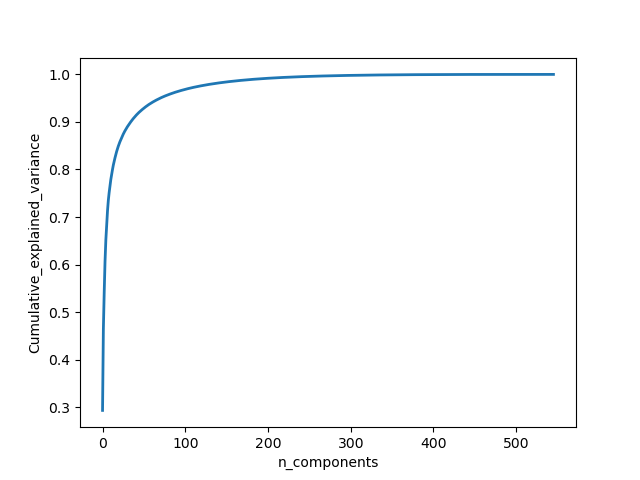
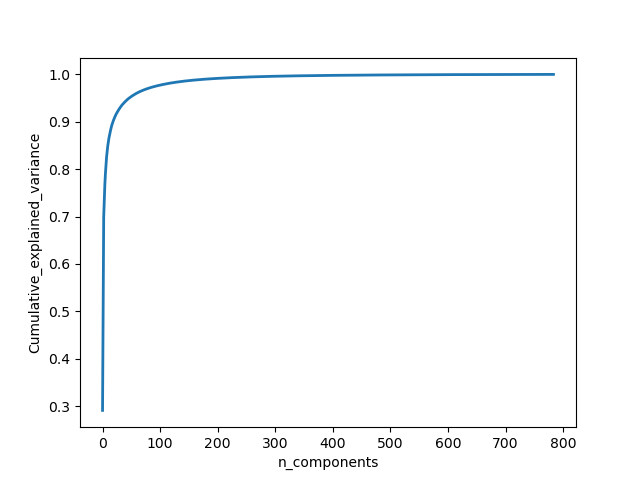
BreastMNIST pipeline

diff --git a/breast_pipeline.py b/breast_pipeline.py
@@ -1,48 +1,64 @@
 
-from utils import data_feed
+from utils import data_feed, augment_data, fit_grid
 from sklearn.preprocessing import StandardScaler
 from sklearn.decomposition import PCA
 import numpy as np
 import matplotlib.pyplot as plt
-from sklearn.ensemble import RandomForestClassifier  #Random Forest algorithm
+from sklearn.ensemble import RandomForestClassifier
 from sklearn.metrics import classification_report, accuracy_score
-from sklearn.model_selection import RandomizedSearchCV, GridSearchCV
+from sklearn.model_selection import RandomizedSearchCV, GridSearchCV, ParameterGrid
+from tqdm import tqdm
+
 import joblib
 from joblib import Parallel, delayed
 from dask.distributed import Client, LocalCluster
 from sklearn.model_selection import cross_val_score
 
-'''
-Next steps:
-- try other models on this 
- 
-'''
+print("-------------- Import data --------------")
 
-print("-------------- Import Data --------------")
+X_train_base, y_train_base, X_val, y_val, X_test, y_test = data_feed(data_flag='breastmnist')
 
-X_train, y_train, X_val, y_val, X_test, y_test = data_feed(data_flag='breastmnist')
+print("Training shape", X_train_base.shape)
+print("Validation shape", X_val.shape)
+print("Testing shape", X_test.shape)
+
+print("-------------- Train random forest with best parameters on all training set --------------")
+
+X_train = np.vstack((X_train_base, X_val))
+y_train = np.hstack((y_train_base, y_val))
+
+print("Training predictors shape", X_train.shape)
+print("Training target shape", y_train.shape)
+print("Testing predictors shape", X_test.shape)
+print("Testing target shape", y_test.shape)
+
+print("-------------- Perform data augmentation on training data --------------")
+
+X_train_aug, y_train_aug = augment_data(X_train, y_train, n_augs=9)
+
+print("Training predictors shape", X_train_aug.shape)
+print("Training target shape", y_train_aug.shape)
 
 print("-------------- Reshape data --------------")
 
-X_train_reshaped = X_train.reshape(X_train.shape[0], X_train.shape[1]*X_train.shape[2])
-X_val_reshaped = X_val.reshape(X_val.shape[0], X_val.shape[1]*X_val.shape[2])
-X_test_reshaped = X_test.reshape(X_test.shape[0], X_test.shape[1]*X_test.shape[2])
+X_train_reshaped = X_train_aug.reshape(X_train_aug.shape[0], X_train_aug.shape[1] * X_train_aug.shape[2])
+#X_val_reshaped = X_val.reshape(X_val.shape[0], X_val.shape[1] * X_val.shape[2])
+X_test_reshaped = X_test.reshape(X_test.shape[0], X_test.shape[1] * X_test.shape[2])
 
 # Change integers to 32-bit floating point numbers
 X_train_reshaped = X_train_reshaped.astype('float32')
-X_val_reshaped = X_val_reshaped.astype('float32')
+#X_val_reshaped = X_val_reshaped.astype('float32')
 X_test_reshaped = X_test_reshaped.astype('float32')
 
 print("Training shape", X_train_reshaped.shape)
-print("Validation shape", X_val_reshaped.shape)
+#print("Training shape", X_val_reshaped.shape)
 print("Testing shape", X_test_reshaped.shape)
 
 print("-------------- Scale data --------------")
 
 X_train_st = StandardScaler().fit_transform(X_train_reshaped)
-X_val_st = StandardScaler().fit_transform(X_val_reshaped)
+#X_val_st = StandardScaler().fit_transform(X_val_reshaped)
 X_test_st = StandardScaler().fit_transform(X_test_reshaped)
-
 
 print("-------------- Perform PCA --------------")
 
@@ -67,31 +83,25 @@ pca.fit(X_train_st)
 print(f'Total number of components used after PCA : {pca.n_components_}')
 
 X_train_pca = pca.transform(X_train_st)
-X_val_pca = pca.transform(X_val_st)
+#X_val_pca = pca.transform(X_val_st)
 X_test_pca = pca.transform(X_test_st)
 
 print(f'Training shape: {X_train_pca.shape}')
-print(f'Validation shape: {X_val_pca.shape}')
+#print(f'Training shape: {X_val_pca.shape}')
 print(f'Test shape: {X_test_pca.shape}')
 
-# Join training set and validation set since we will actually use cross validation and grid search to tune our random forest
-X_train_full = np.vstack((X_train_pca, X_val_pca))
-y_train_full = np.hstack((y_train, y_val))
-
-print(f'Training predictors shape: {X_train_full.shape}')
-print(f'Training target shape: {y_train_full.shape}')
-
-print("-------------- Grid Search CV - Random forest classifier --------------")
+print("-------------- Parallelized Grid Search - Random forest classifier --------------")
 
 # Create the parameter grid based on the results of random search
 param_grid = {
     'bootstrap': [True, False],
     'max_depth': [80, 90, 100, None],
     'max_features': ["sqrt", "log2"],
-    'n_estimators': [100, 200, 300, 400]
+    'n_estimators': [200, 300, 400, 500] # next: 500, 600, 700
 }
 
 # Create base model
+'''
 rf = RandomForestClassifier()
 
 # Instantiate the grid search model
@@ -99,14 +109,28 @@ grid_search = GridSearchCV(estimator=rf,
                            param_grid=param_grid,
                            cv=3,
                            verbose=10)
+'''
 
-grid_search.fit(X_train_pca, y_train)
-print(f"The best parameters are: {grid_search.best_params_}")
+# Generate all possible parameter combinations
+param_combinations = list(ParameterGrid(param_grid))
+
+grid_results = Parallel(n_jobs=-1)(delayed(fit_grid)(X_train_pca, y_train_aug, params) for params in tqdm(param_combinations))
+
+# Perform grid search in parallel with progress tracking
+sorted_grid_results = sorted(grid_results, key=lambda x: x[0], reverse=True)
+best_grid = sorted_grid_results[0]
+
+print(f"CV validation accuracy for best parameters: {best_grid[0]}")
+print(f"The best parameters are: {best_grid[1]}")
 
 print("-------------- Make predictions on test set with best model obtained from grid search --------------")
 
-best_model = grid_search.best_estimator_
+best_model = RandomForestClassifier(**best_grid[1], verbose=1)
+best_model.fit(X_train_pca, y_train_aug)
 y_pred = best_model.predict(X_test_pca)
-print(f"Test accuracy: {accuracy_score(y_test, y_pred)}")
+print(f"Test accuracy: {accuracy_score(y_test, y_pred)}") # 0.73
+print(f"Test accuracy: {classification_report(y_test, y_pred)}")
+
+
 
 print("-------------- End of pipeline --------------")

diff --git a/utils.py b/utils.py
@@ -3,6 +3,9 @@ import pickle
 import cv2
 import numpy as np
 import matplotlib.pyplot as plt
+from tensorflow.keras import Sequential, layers
+import tensorflow
+from tqdm import tqdm
 
 
 def data_feed(data_flag):
@@ -90,21 +93,76 @@ def plot_accuracy_loss(history):
     plt.savefig("plots/cnn_model_performance.png")
 
 
-def accuracy_fn(y_true, y_pred):
+def augment_data(X, y, n_augs=9):
     """
-    This function computes model accuracy.
-    :param y_true: actual target
-    :param y_pred: predicted target
-    :return: model accuracy
+    Performs data augmentation on provided dataset.
+    :param X: predictors set
+    :param y: target set
+    :param n_augs: number of times we want to augment an image
+    :return: augmented dataset
+    """
+    data_augmentation = Sequential([
+        layers.RandomFlip("horizontal_and_vertical", seed=12),
+        layers.RandomRotation(0.2, seed=23)
+    ])
+
+    X_aug = []
+    y_aug = []
+    for index in tqdm(range(len(X))):
+        image = X[index]
+        image = image.reshape(image.shape + (1,))
+        label = y[index]
+        for i in range(n_augs):
+            augmented_image = data_augmentation(tensorflow.convert_to_tensor(image))
+            augmented_image = augmented_image.numpy()
+            augmented_image = augmented_image.reshape(augmented_image.shape[:-1])
+            X_aug.append(augmented_image)
+            y_aug.append(label)
+
+    X_aug = np.asarray(X_aug)
+    y_aug = np.asarray(y_aug)
+
+    shuffle_index = np.random.permutation(len(X_aug))
+    X_aug = X_aug[shuffle_index]
+    y_aug = y_aug[shuffle_index]
+
+    return X_aug, y_aug
+
+
+from sklearn.ensemble import RandomForestClassifier
+from sklearn.model_selection import StratifiedKFold, cross_val_score
+
+def fit_grid(X, y, param_combination):
     """
 
-    boolean_result = []
-    for t, p in zip(y_true, y_pred):
-        if t == p:
-            boolean_result.append(True)
-        else:
-            boolean_result.append(False)
+    :param grid_search:
+    :param X:
+    :param y:
+    :param param_combination:
+    :return:
+    """
 
-    correct = np.array(boolean_result).sum()
-    accuracy = correct / len(y_pred)
-    return accuracy
+    classifier = RandomForestClassifier(**param_combination, verbose=1)
+    sk_fold = StratifiedKFold(n_splits=10, shuffle=True, random_state=12)
+    scores = cross_val_score(classifier, X, y, cv=sk_fold)
+    cv_score = np.mean(scores)
+
+    print(f"CV score: {cv_score}")
+
+    return cv_score, param_combination
+
+
+'''
+def plot_grid(grid_search, x, y):
+    x_axis =
+    y_axis =
+    scores = [i[1] for i in grid_search.grid_scores_]
+    scores = np.array(scores).reshape(len(Cs), len(Gammas))
+
+    for ind, i in enumerate(Cs):
+        plt.plot(Gammas, scores[ind], label='C: ' + str(i))
+    plt.legend()
+    plt.xlabel('Gamma')
+    plt.ylabel('Mean score')
+    plt.show()
+'''
